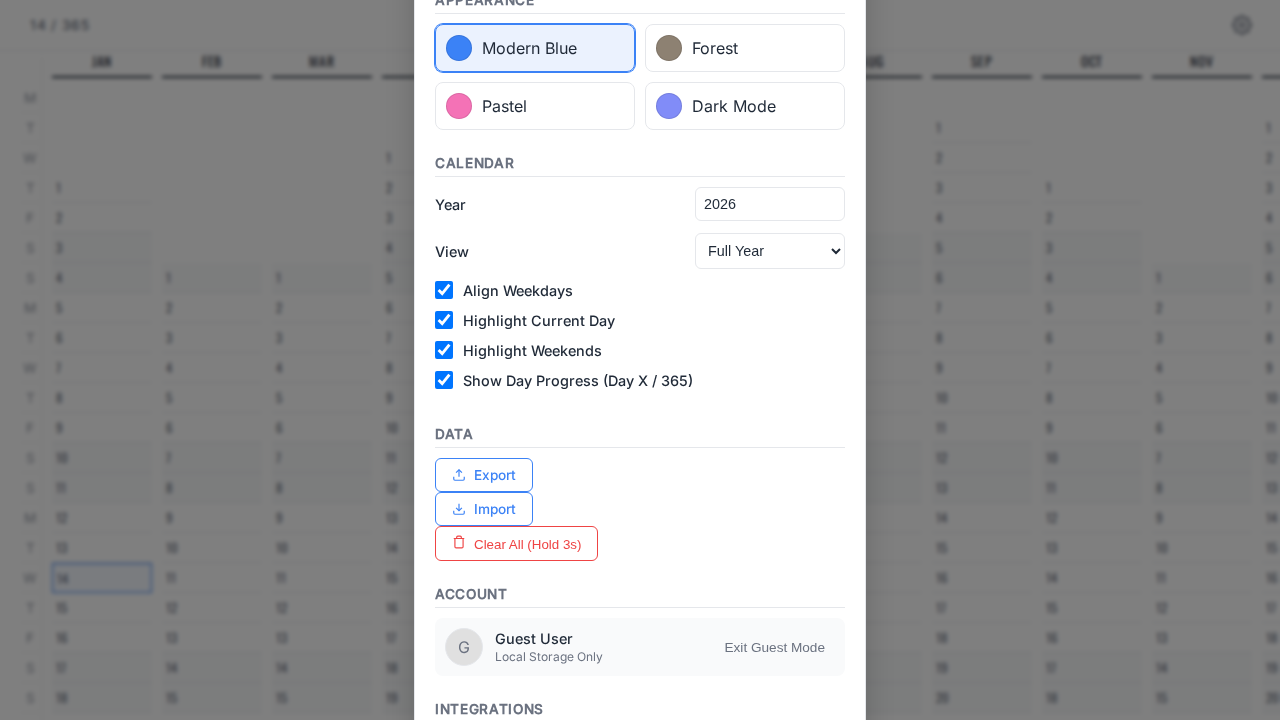
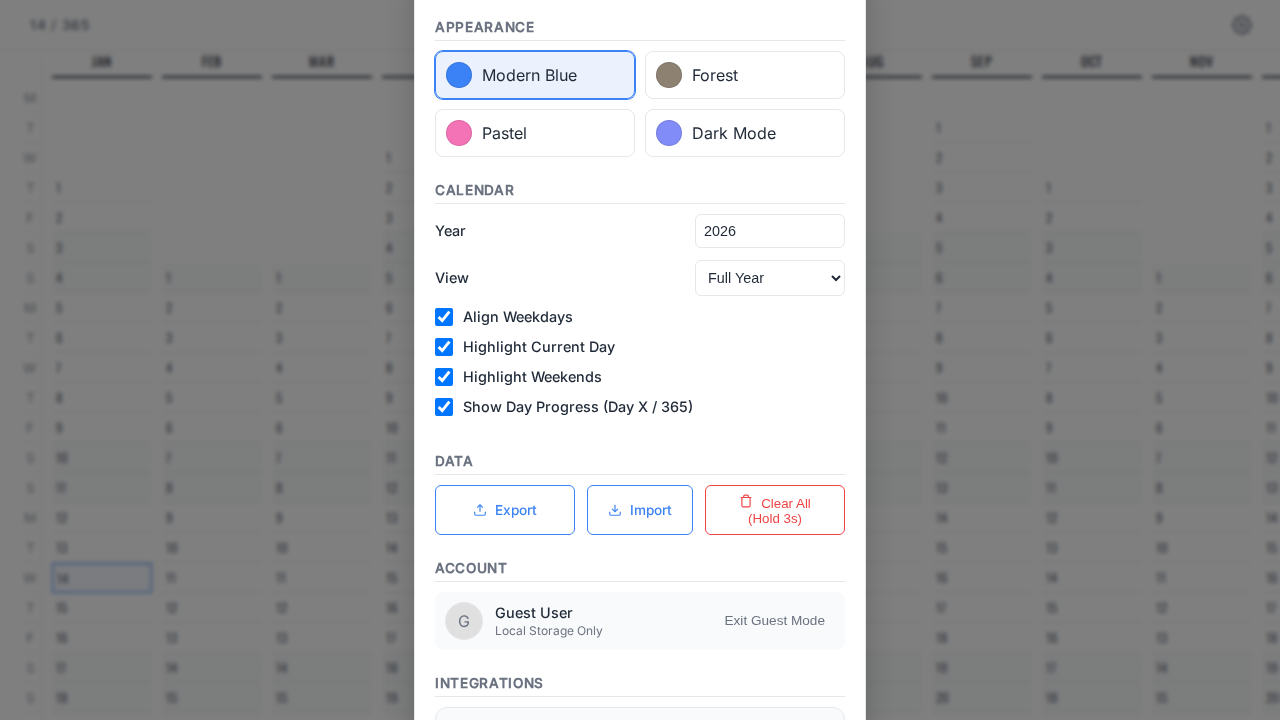
Add logger and UI fixes

diff --git a/src/hooks/usePlannerState.ts b/src/hooks/usePlannerState.ts
@@ -1,0 +1,103 @@
+import { PlannerEvent, PlannerSettings } from '../utils/calendarUtils';
+import { logger } from '../utils/logger';
+
+export type ActionType =
+    | 'HYDRATE_LOCAL'
+    | 'HYDRATE_REMOTE'
+    | 'USER_CHANGE'
+    | 'REMOTE_UPDATE'
+    | 'RESET';
+
+export interface PlannerData {
+    events: PlannerEvent[];
+    settings: PlannerSettings;
+}
+
+export interface PlannerState {
+    data: PlannerData;
+    metadata: {
+        lastActionType: ActionType | null;
+        updatedAt: number;
+        isHydrated: boolean;
+    };
+}
+
+export type Action =
+    | { type: 'HYDRATE_LOCAL'; payload: PlannerData; timestamp: number }
+    | { type: 'HYDRATE_REMOTE'; payload: PlannerData; timestamp: number }
+    | { type: 'USER_CHANGE'; payload: { events?: PlannerEvent[]; settings?: Partial<PlannerSettings> }; timestamp: number }
+    | { type: 'REMOTE_UPDATE'; payload: { events?: PlannerEvent[]; settings?: Partial<PlannerSettings> }; timestamp: number }
+    | { type: 'RESET'; initialState: PlannerState };
+
+export const plannerReducer = (state: PlannerState, action: Action): PlannerState => {
+    switch (action.type) {
+        case 'HYDRATE_LOCAL':
+            if (state.metadata.isHydrated) return state;
+            logger.info('Hydrating from LocalStorage', action.payload);
+            return {
+                data: action.payload,
+                metadata: {
+                    lastActionType: 'HYDRATE_LOCAL',
+                    updatedAt: action.timestamp,
+                    isHydrated: true
+                }
+            };
+        case 'HYDRATE_REMOTE':
+            logger.info('Hydrating from Remote (Firestore)', action.payload);
+            return {
+                data: action.payload,
+                metadata: {
+                    lastActionType: 'HYDRATE_REMOTE',
+                    updatedAt: action.timestamp,
+                    isHydrated: true
+                }
+            };
+        case 'USER_CHANGE':
+            logger.info('User Change detected:', action.payload);
+            return {
+                data: {
+                    events: action.payload.events ?? state.data.events,
+                    settings: action.payload.settings ? { ...state.data.settings, ...action.payload.settings } : state.data.settings
+                },
+                metadata: {
+                    lastActionType: 'USER_CHANGE',
+                    updatedAt: action.timestamp,
+                    isHydrated: true
+                }
+            };
+        case 'REMOTE_UPDATE':
+            // Last-Write-Wins: Only accept if remote is newer
+            // Note: If we just hydrated from local, we still want to prefer remote IF it's newer or we have no data.
+            const isStale = action.timestamp > 0 && action.timestamp <= state.metadata.updatedAt;
+
+            if (isStale) {
+                logger.info('Ignoring stale remote update', { remote: action.timestamp, local: state.metadata.updatedAt });
+                return state;
+            }
+
+            // If remote is empty and we have local data, ignore it (unless it's actually newer, which isStale handled)
+            const remoteIsEmpty = !action.payload.events?.length && !action.payload.settings;
+            if (remoteIsEmpty && state.data.events.length > 0) {
+                logger.info('Ignoring empty remote update (preserving local data)');
+                return state;
+            }
+
+            logger.info('Applying Remote Update', action.payload);
+            return {
+                data: {
+                    events: action.payload.events ?? state.data.events,
+                    settings: action.payload.settings ? { ...state.data.settings, ...action.payload.settings } : state.data.settings
+                },
+                metadata: {
+                    lastActionType: 'REMOTE_UPDATE',
+                    updatedAt: action.timestamp,
+                    isHydrated: true
+                }
+            };
+        case 'RESET':
+            logger.info('Resetting state to initial');
+            return action.initialState;
+        default:
+            return state;
+    }
+};

diff --git a/src/utils/logger.ts b/src/utils/logger.ts
@@ -1,0 +1,60 @@
+const STORAGE_KEY = 'app_debug_mode';
+
+let debugCache: boolean | null = null;
+
+// Helper to check status with caching
+const isDebugEnabled = (): boolean => {
+    if (typeof window === 'undefined') return false;
+
+    if (debugCache === null) {
+        debugCache = localStorage.getItem(STORAGE_KEY) === 'true' || (window as any).DEBUG === true;
+    }
+    return debugCache;
+};
+
+// Listen for storage changes from other tabs/windows
+if (typeof window !== 'undefined') {
+    window.addEventListener('storage', (e) => {
+        if (e.key === STORAGE_KEY) {
+            debugCache = e.newValue === 'true';
+        }
+    });
+}
+
+// The Logger Object
+export const logger = {
+    info: (message: string, ...args: any[]) => {
+        if (isDebugEnabled()) {
+            console.info(`%c[INFO] ${message}`, 'color: #00bcd4; font-weight: bold;', ...args);
+        }
+    },
+    warn: (message: string, ...args: any[]) => {
+        if (isDebugEnabled()) {
+            console.warn(`%c[WARN] ${message}`, 'color: #ff9800; font-weight: bold;', ...args);
+        }
+    },
+    error: (message: string, ...args: any[]) => {
+        // Errors usually should always be shown, but you can gate them too if desired
+        console.error(`%c[ERROR] ${message}`, 'color: #f44336; font-weight: bold;', ...args);
+    },
+    group: (label: string) => {
+        if (isDebugEnabled()) console.groupCollapsed(label);
+    },
+    groupEnd: () => {
+        if (isDebugEnabled()) console.groupEnd();
+    }
+};
+
+// Expose control functions to the Global Window object
+if (typeof window !== 'undefined') {
+    (window as any).enableDebug = () => {
+        localStorage.setItem(STORAGE_KEY, 'true');
+        debugCache = true;
+        console.log('%c Debug Mode ENABLED. Reload to see boot logs.', 'background: green; color: white; padding: 2px 5px; border-radius: 3px;');
+    };
+    (window as any).disableDebug = () => {
+        localStorage.removeItem(STORAGE_KEY);
+        debugCache = false;
+        console.log('%c Debug Mode DISABLED.', 'background: red; color: white; padding: 2px 5px; border-radius: 3px;');
+    };
+}

diff --git a/src/firestoreSync.ts b/src/firestoreSync.ts
@@ -8,6 +8,8 @@ import {
     DocumentData
 } from 'firebase/firestore';
 import { PlannerEvent, PlannerSettings } from './utils/calendarUtils';
+import { logger } from './utils/logger';
+
 
 export interface RemoteEventsPayload {
     events: PlannerEvent[];
@@ -21,7 +23,7 @@ const DEBOUNCE_MS = 1000;
 /**
  * Save events to Firestore (debounced)
  */
-export const syncEvents = (uid: string, events: PlannerEvent[]) => {
+export const syncEvents = (uid: string, events: PlannerEvent[], timestamp?: number) => {
     if (!uid) return;
 
     if (saveTimeout) {
@@ -30,14 +32,15 @@ export const syncEvents = (uid: string, events: PlannerEvent[]) => {
 
     saveTimeout = setTimeout(async () => {
         try {
+            logger.info('Syncing Events to Firestore...', { count: events.length });
             const ref = doc(db, 'users', uid, 'data', 'events');
             await setDoc(ref, {
                 events,
-                updatedAt: serverTimestamp()
+                updatedAt: timestamp || serverTimestamp()
             }, { merge: true });
-            console.log('Events synced to Firestore');
+            logger.info('Events synced to Firestore successfully');
         } catch (error) {
-            console.error('Error syncing events:', error);
+            logger.error('Error syncing events:', error);
         }
     }, DEBOUNCE_MS);
 };
@@ -89,7 +92,7 @@ export const loadEvents = async (uid: string): Promise<RemoteEventsPayload | nul
  */
 let settingsSaveTimeout: ReturnType<typeof setTimeout> | null = null;
 
-export const syncSettings = (uid: string, settings: PlannerSettings) => {
+export const syncSettings = (uid: string, settings: PlannerSettings, timestamp?: number) => {
     if (!uid) return;
 
     if (settingsSaveTimeout) {
@@ -98,14 +101,15 @@ export const syncSettings = (uid: string, settings: PlannerSettings) => {
 
     settingsSaveTimeout = setTimeout(async () => {
         try {
+            logger.info('Syncing Settings to Firestore...', settings);
             const ref = doc(db, 'users', uid, 'data', 'settings');
             await setDoc(ref, {
                 ...settings,
-                updatedAt: serverTimestamp()
+                updatedAt: timestamp || serverTimestamp()
             }, { merge: true });
-            console.log('Settings synced to Firestore');
+            logger.info('Settings synced to Firestore successfully');
         } catch (error) {
-            console.error('Error syncing settings:', error);
+            logger.error('Error syncing settings:', error);
         }
     }, DEBOUNCE_MS);
 };
@@ -114,7 +118,7 @@ export const syncSettings = (uid: string, settings: PlannerSettings) => {
  * Subscribe to settings changes from Firestore
  * Returns an unsubscribe function
  */
-export const subscribeToSettings = (uid: string, callback: (settings: Partial<PlannerSettings>) => void) => {
+export const subscribeToSettings = (uid: string, callback: (settings: Partial<PlannerSettings> & { updatedAt?: number }) => void) => {
     if (!uid) return () => { };
 
     const ref = doc(db, 'users', uid, 'data', 'settings');
@@ -122,9 +126,8 @@ export const subscribeToSettings = (uid: string, callback: (settings: Partial<Pl
     return onSnapshot(ref, (snapshot) => {
         if (snapshot.exists()) {
             const data = snapshot.data();
-            // Remove updatedAt from callback data
-            const { updatedAt: _updatedAt, ...settings } = data as DocumentData;
-            callback(settings as Partial<PlannerSettings>);
+            const updatedAt = data.updatedAt?.toMillis?.() || data.updatedAt || null;
+            callback({ ...data, updatedAt } as Partial<PlannerSettings> & { updatedAt: number });
         }
     }, (error) => {
         console.error('Error subscribing to settings:', error);

diff --git a/src/App.css b/src/App.css
@@ -688,6 +688,25 @@ body[data-theme='dark'] .day-cell.highlighted {
   margin-right: 8px;
 }
 
+.settings-actions-row {
+  display: flex;
+  gap: 12px;
+  align-items: stretch;
+}
+
+.settings-actions-row > * {
+  flex: 1;
+}
+
+.import-dropzone {
+  display: flex;
+  flex: 1;
+}
+
+.import-dropzone button {
+  width: 100%;
+}
+
 .settings-actions-grid {
   display: grid;
   grid-template-columns: 1fr 1fr;

diff --git a/src/components/PlannerGrid.tsx b/src/components/PlannerGrid.tsx
@@ -5,6 +5,8 @@ import MonthColumn from './MonthColumn';
 import { daysOfWeek, PlannerEvent, EventRange } from '../utils/calendarUtils';
 import { useEventDragCalculations } from '../hooks/useEventDragCalculations';
 import { useTodayVisibility } from '../hooks/useTodayVisibility';
+import { logger } from '../utils/logger';
+
 
 interface PlannerGridProps {
     onEventClick: (e: React.MouseEvent, allEventsOnDay: PlannerEvent[], m: number, d: number) => void;
@@ -58,6 +60,7 @@ const PlannerGrid: React.FC<PlannerGridProps> = ({ onEventClick, setTodayInView,
         isDragJustFinishedRef.current = false;
         const activeData = event.active.data.current as any;
         if (activeData?.event) {
+            logger.info('Drag started for event:', activeData.event);
             setActiveEventId(activeData.event.id);
         }
     };
@@ -84,7 +87,10 @@ const PlannerGrid: React.FC<PlannerGridProps> = ({ onEventClick, setTodayInView,
         }, 100);
 
         const { active, over } = event;
-        if (!over) return;
+        if (!over) {
+            logger.info('Drag ended (cancelled/no target)');
+            return;
+        }
 
         // Mark drag as finished to prevent click
         isDragJustFinishedRef.current = true;
@@ -92,6 +98,7 @@ const PlannerGrid: React.FC<PlannerGridProps> = ({ onEventClick, setTodayInView,
 
         const newEvent = calculateNewEventPosition(active, over);
         if (newEvent) {
+            logger.info('Drag finished, moving event to:', newEvent);
             const newEvents = events.map(ev => (ev.id === newEvent.id ? newEvent : ev));
             setEvents(newEvents);
         }

diff --git a/src/components/PlannerView.tsx b/src/components/PlannerView.tsx
@@ -7,6 +7,8 @@ import SettingsModal from './SettingsModal';
 import EventModal from './EventModal';
 import EventListModal from './EventListModal';
 import { User } from 'firebase/auth';
+import { logger } from '../utils/logger';
+
 
 interface PlannerViewProps {
     user: User | null;
@@ -91,11 +93,13 @@ const PlannerView: React.FC<PlannerViewProps> = ({ user, signOut, isGuest, setIs
             end: endStr,
             color: colorIndex
         });
+        logger.info('Creating new event:', newEvent);
         setEvents(prevEvents => [...prevEvents, newEvent]);
         setModal({ type: 'NONE' });
     };
 
     const handleUpdateEvent = (updatedEvent: PlannerEvent) => {
+        logger.info('Updating event:', updatedEvent);
         setEvents(prevEvents => prevEvents.map(ev => ev.id === updatedEvent.id ? updatedEvent : ev));
         if (modal.type === 'LIST') {
             setModal({
@@ -106,6 +110,7 @@ const PlannerView: React.FC<PlannerViewProps> = ({ user, signOut, isGuest, setIs
     };
 
     const handleDeleteEvent = (id: string) => {
+        logger.info('Deleting event ID:', id);
         setEvents(prevEvents => prevEvents.filter(ev => ev.id !== id));
         if (modal.type === 'LIST') {
             const nextSelected = modal.events.filter(ev => ev.id !== id);

diff --git a/src/App.tsx b/src/App.tsx
@@ -1,6 +1,7 @@
 import React from 'react';
 import { Toaster } from 'react-hot-toast';
 import './App.css';
+import './utils/logger';
 import { useAuth } from './AuthContext';
 import LoginScreen from './LoginScreen';
 import { PlannerProvider } from './context/PlannerContext';